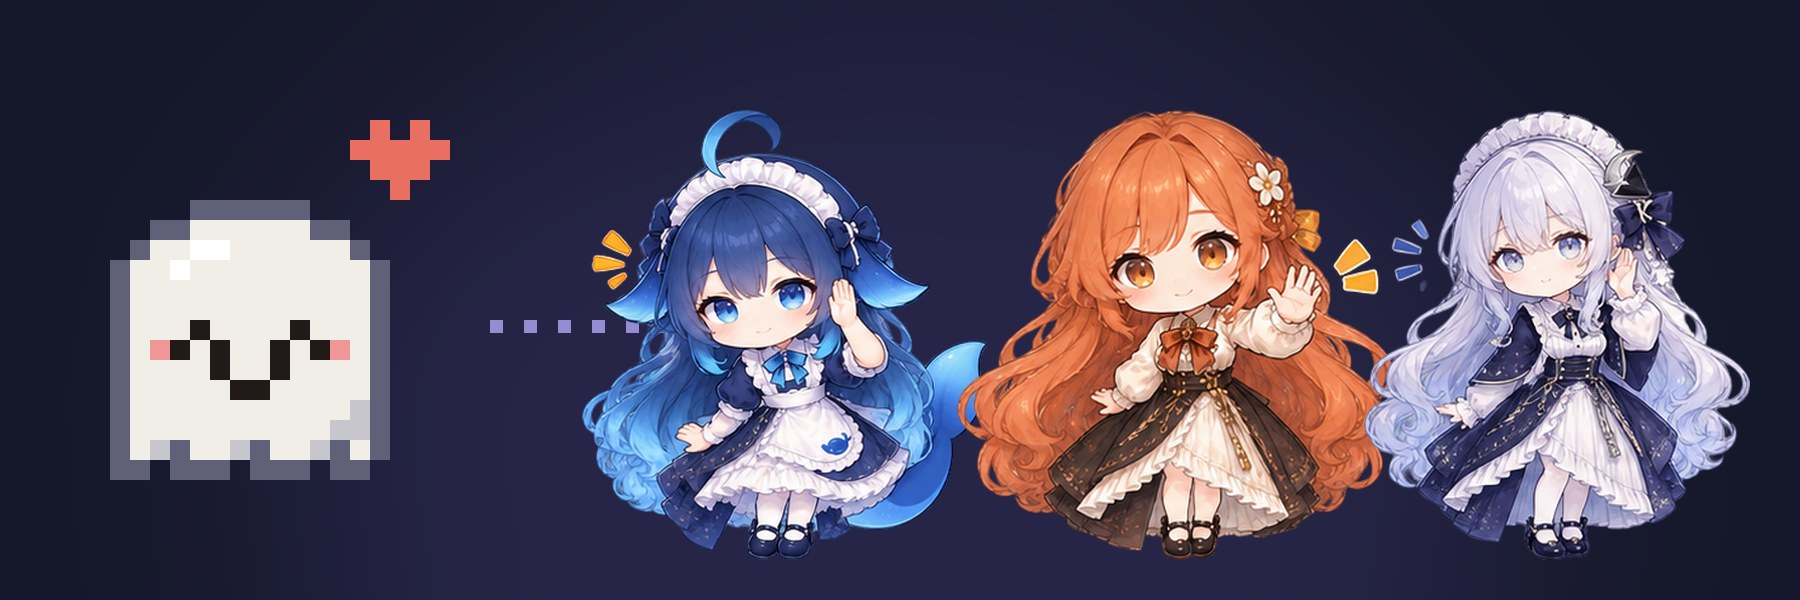
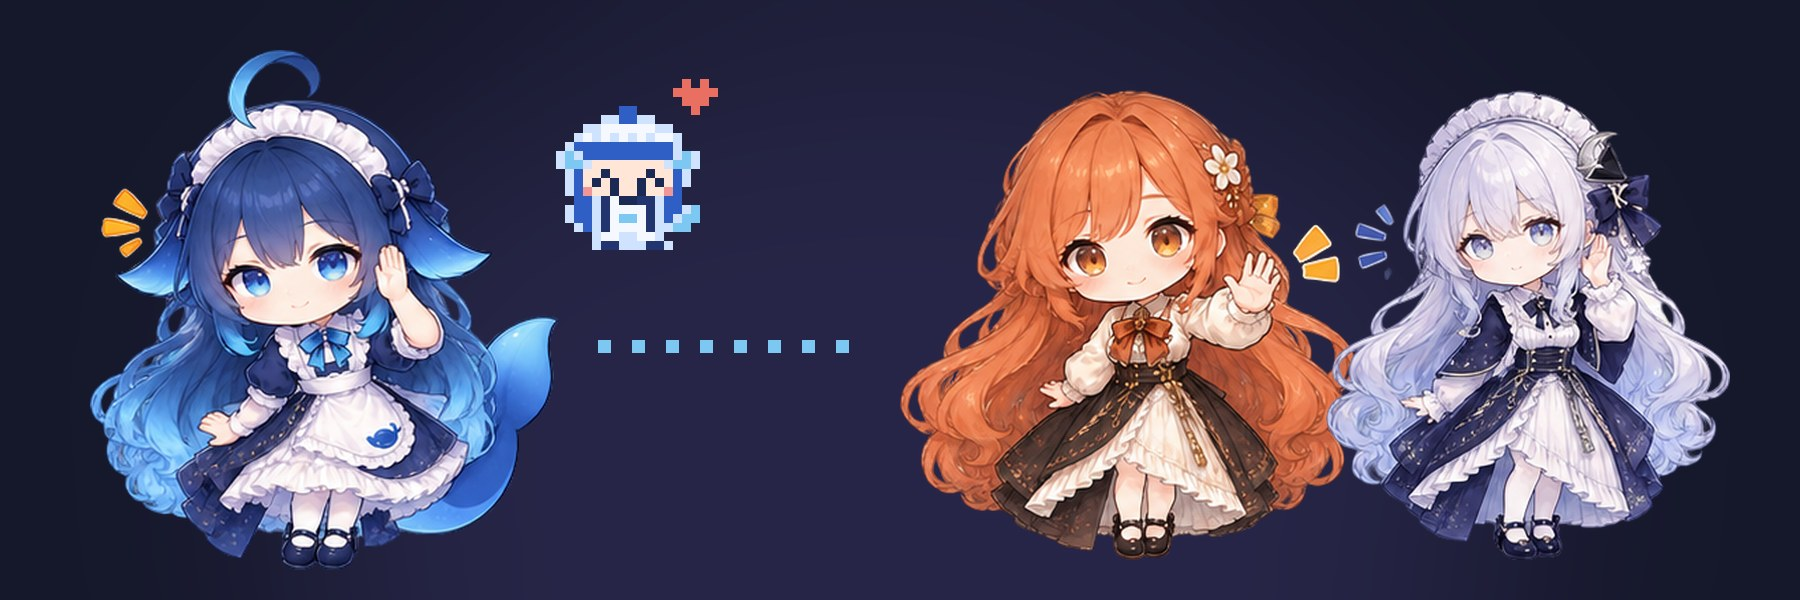
docs: make the DeepSeek whale Xiaoyou in the root README
Xiaoyou herself is now the whale maid and runs on DeepSeek through dsh;
Claude and Codex are her helpers. The hero banner and the mood sheet show
the whale, and the sprite frames are rendered from the work-in-progress
pocket_pet.c.

diff --git a/README.md b/README.md
@@ -5,19 +5,19 @@
 <h1 align="center">Claude Pocket</h1>
 
 <p align="center">
-  <strong>Xiaoyou, a tiny pixel ghost, lives on your wrist.<br>
-  You talk to her; she hands the work to her helpers.</strong>
+  <strong>Xiaoyou, a little whale maid, lives on your wrist.<br>
+  You talk to her; she hands the big jobs to Claude and Codex.</strong>
 </p>
 
 <p align="center">
   <a href="LICENSE"><img src="https://img.shields.io/badge/License-MIT-64748b?style=flat-square" alt="MIT License"></a>
   <img src="https://img.shields.io/badge/MCU-ESP32--C3-14b8a6?style=flat-square" alt="ESP32-C3">
   <img src="https://img.shields.io/badge/ESP--IDF-5.5.3-2563eb?style=flat-square" alt="ESP-IDF 5.5.3">
-  <img src="https://img.shields.io/badge/link-BLE%20Secure-a78bfa?style=flat-square" alt="Bluetooth LE Secure Connections">
+  <img src="https://img.shields.io/badge/Xiaoyou-DeepSeek%20%C2%B7%20dsh-7cc8f2?style=flat-square" alt="Xiaoyou runs on DeepSeek through dsh">
 </p>
 
 <p align="center">
-  <img src="assets/images/readme/readme-hero.jpg" alt="Xiaoyou, a white pixel ghost with a heart, passes a dotted trail to three chibi helpers: a blue-haired whale maid, an orange-haired scholar and a silver-haired companion, all waving." width="100%">
+  <img src="assets/images/readme/readme-hero.jpg" alt="Xiaoyou, a blue-haired whale maid, waves next to her pixel-art form with a heart; a dotted trail runs from her to two waving helpers, an orange-haired scholar (Claude) and a silver-haired companion (Codex)." width="100%">
 </p>
 
 **Claude Pocket** is firmware for a small, open ESP32-C3 wearable from
@@ -31,30 +31,37 @@ the app, it also works with the Claude desktop app in Developer Mode.
 
 ## Meet Xiaoyou
 
+Xiaoyou is the DeepSeek whale, a whale maid nicknamed *Big Fat Fish*. She is
+the only one you talk to, and the runtime runs her on DeepSeek through the
+DeepSeek Harness CLI (`dsh`).
+
 <p align="center">
-  <img src="assets/images/readme/readme-xiaoyou-moods.png" alt="Six moods of Xiaoyou, the pixel ghost: asleep, idle, busy with a sweat drop, asking with an exclamation mark, happy with a heart, and failed with crossed eyes." width="560">
+  <img src="assets/images/readme/readme-xiaoyou-idle.gif" alt="Xiaoyou's pixel sprite bobbing up and down while idle." width="160">
+  &nbsp;&nbsp;
+  <img src="assets/images/readme/readme-xiaoyou-moods.png" alt="Six moods of Xiaoyou's pixel sprite: asleep, idle, busy with bouncing dots, asking with an exclamation mark, happy with a heart, and failed with crossed eyes." width="480">
 </p>
 
-She is drawn pixel by pixel in [`main/pocket_pet.c`](main/pocket_pet.c). She
-sleeps while nothing is connected and bobs gently when idle. When she's busy,
-three dots bounce over her head and a sweat drop shows. She raises an
-exclamation mark when she needs you, gets a heart when things go well, and
-crosses her eyes when something fails.
+On the device she is a 20 × 20 pixel sprite. She sleeps while nothing is
+connected, bobs gently when idle, has three dots bouncing over her head when
+she's busy, raises an exclamation mark when she needs you, gets a heart when
+things go well, and crosses her eyes when something fails.
+
+> The sprite is moving from the earlier pixel ghost to the whale. These frames
+> are rendered from the work-in-progress `main/pocket_pet.c`.
 
 ## Her helpers
 
-Xiaoyou does not do the heavy lifting herself. She hands it to whichever agent
-the host has configured. Each helper has a colour of its own on the device and
-a character in the companion design pack:
+Xiaoyou answers what she can herself and hands longer work to an agent in the
+background. Each helper has a colour of its own on the device:
 
-| | Helper | Runs as |
+| | Who | Runs as |
 | --- | --- | --- |
-| 🐋 | **DSH**: the whale maid | DeepSeek Harness CLI (`dsh`) |
+| 🐋 | **Xiaoyou**: the whale maid, the one you talk to | DeepSeek through `dsh` |
 | 🧡 | **Claude**: the orange-haired scholar | Claude Code (`claude`, `tailor`) |
 | 🌙 | **Codex**: the silver-haired companion | Codex app-server |
 
 <p align="center">
-  <img src="assets/images/readme/readme-crew.jpg" alt="Three rows, one per helper, each in four poses: thinking, typing on a laptop, waving while waiting for your approval, and cheering when the task is done." width="100%">
+  <img src="assets/images/readme/readme-crew.jpg" alt="Three rows: Xiaoyou the whale maid, Claude and Codex, each in four poses: thinking, typing on a laptop, waving while waiting for your approval, and cheering when the task is done." width="100%">
 </p>
 
 <p align="center"><sub>Thinking · working · waiting for your OK · done</sub></p>
@@ -62,11 +69,10 @@ a character in the companion design pack:
 And as pixel heads, sized for a small screen:
 
 <p align="center">
-  <img src="assets/images/readme/readme-pixel-heads.jpg" alt="Pixel-art heads of the three helpers, eight expressions each: neutral, happy, thinking, focused, puzzled, surprised, error, and sleeping." width="100%">
+  <img src="assets/images/readme/readme-pixel-heads.jpg" alt="Pixel-art heads of Xiaoyou, Claude and Codex, eight expressions each: neutral, happy, thinking, focused, puzzled, surprised, error, and sleeping." width="100%">
 </p>
 
-> The helper characters are unofficial, fan-inspired concept art, and the
-> firmware does not use them yet. See the
+> The chibi characters are unofficial, fan-inspired concept art. See the
 > [design pack](docs/reference/yanyuliu01/ai-companion-design.md) for every sheet
 > and its status.
 

diff --git a/assets/README.md b/assets/README.md
@@ -79,4 +79,4 @@ Actual PNG dimensions, alpha statistics, hashes and selected/draft status are in
 
 The user supplied `reference-codex-elegant.png` as a character reference; original author and reuse license are unknown. `reference-xiaoyou-style.png` was rendered from this repository's `main/pocket_pet.c`. Other sheets were generated for this project, guided by community character conventions and the user's preferences. No third-party rights or official affiliation are asserted. No new artwork license is assigned by this entry; the repository code license does not establish rights to underlying character references.
 
-The root README's banners in `images/readme/` are composited from these sheets and from `reference-xiaoyou-style.png`; they carry the same status and rights notes.
+The root README's banners in `images/readme/` are composited from these sheets; the Xiaoyou sprite frames are rendered from `main/pocket_pet.c`. They carry the same status and rights notes.

diff --git a/assets/README.zh_CN.md b/assets/README.zh_CN.md
@@ -74,4 +74,4 @@
 
 用户提供 `reference-codex-elegant.png` 作为角色参考，原作者和再利用许可未知。`reference-xiaoyou-style.png` 从仓库的 `main/pocket_pet.c` 渲染。其他图集为本项目生成，参考社区角色约定与用户偏好，不声称取得第三方权利或官方身份。本条目不赋予新的美术许可；仓库代码许可不能证明底层角色参考的使用权。
 
-根目录 README 用的横幅图放在 `images/readme/`，由这些图稿和 `reference-xiaoyou-style.png` 拼合而成，状态与权利说明同上。
+根目录 README 用的横幅图放在 `images/readme/`，由这些图稿拼合而成；小幽的像素帧从 `main/pocket_pet.c` 渲染。状态与权利说明同上。
